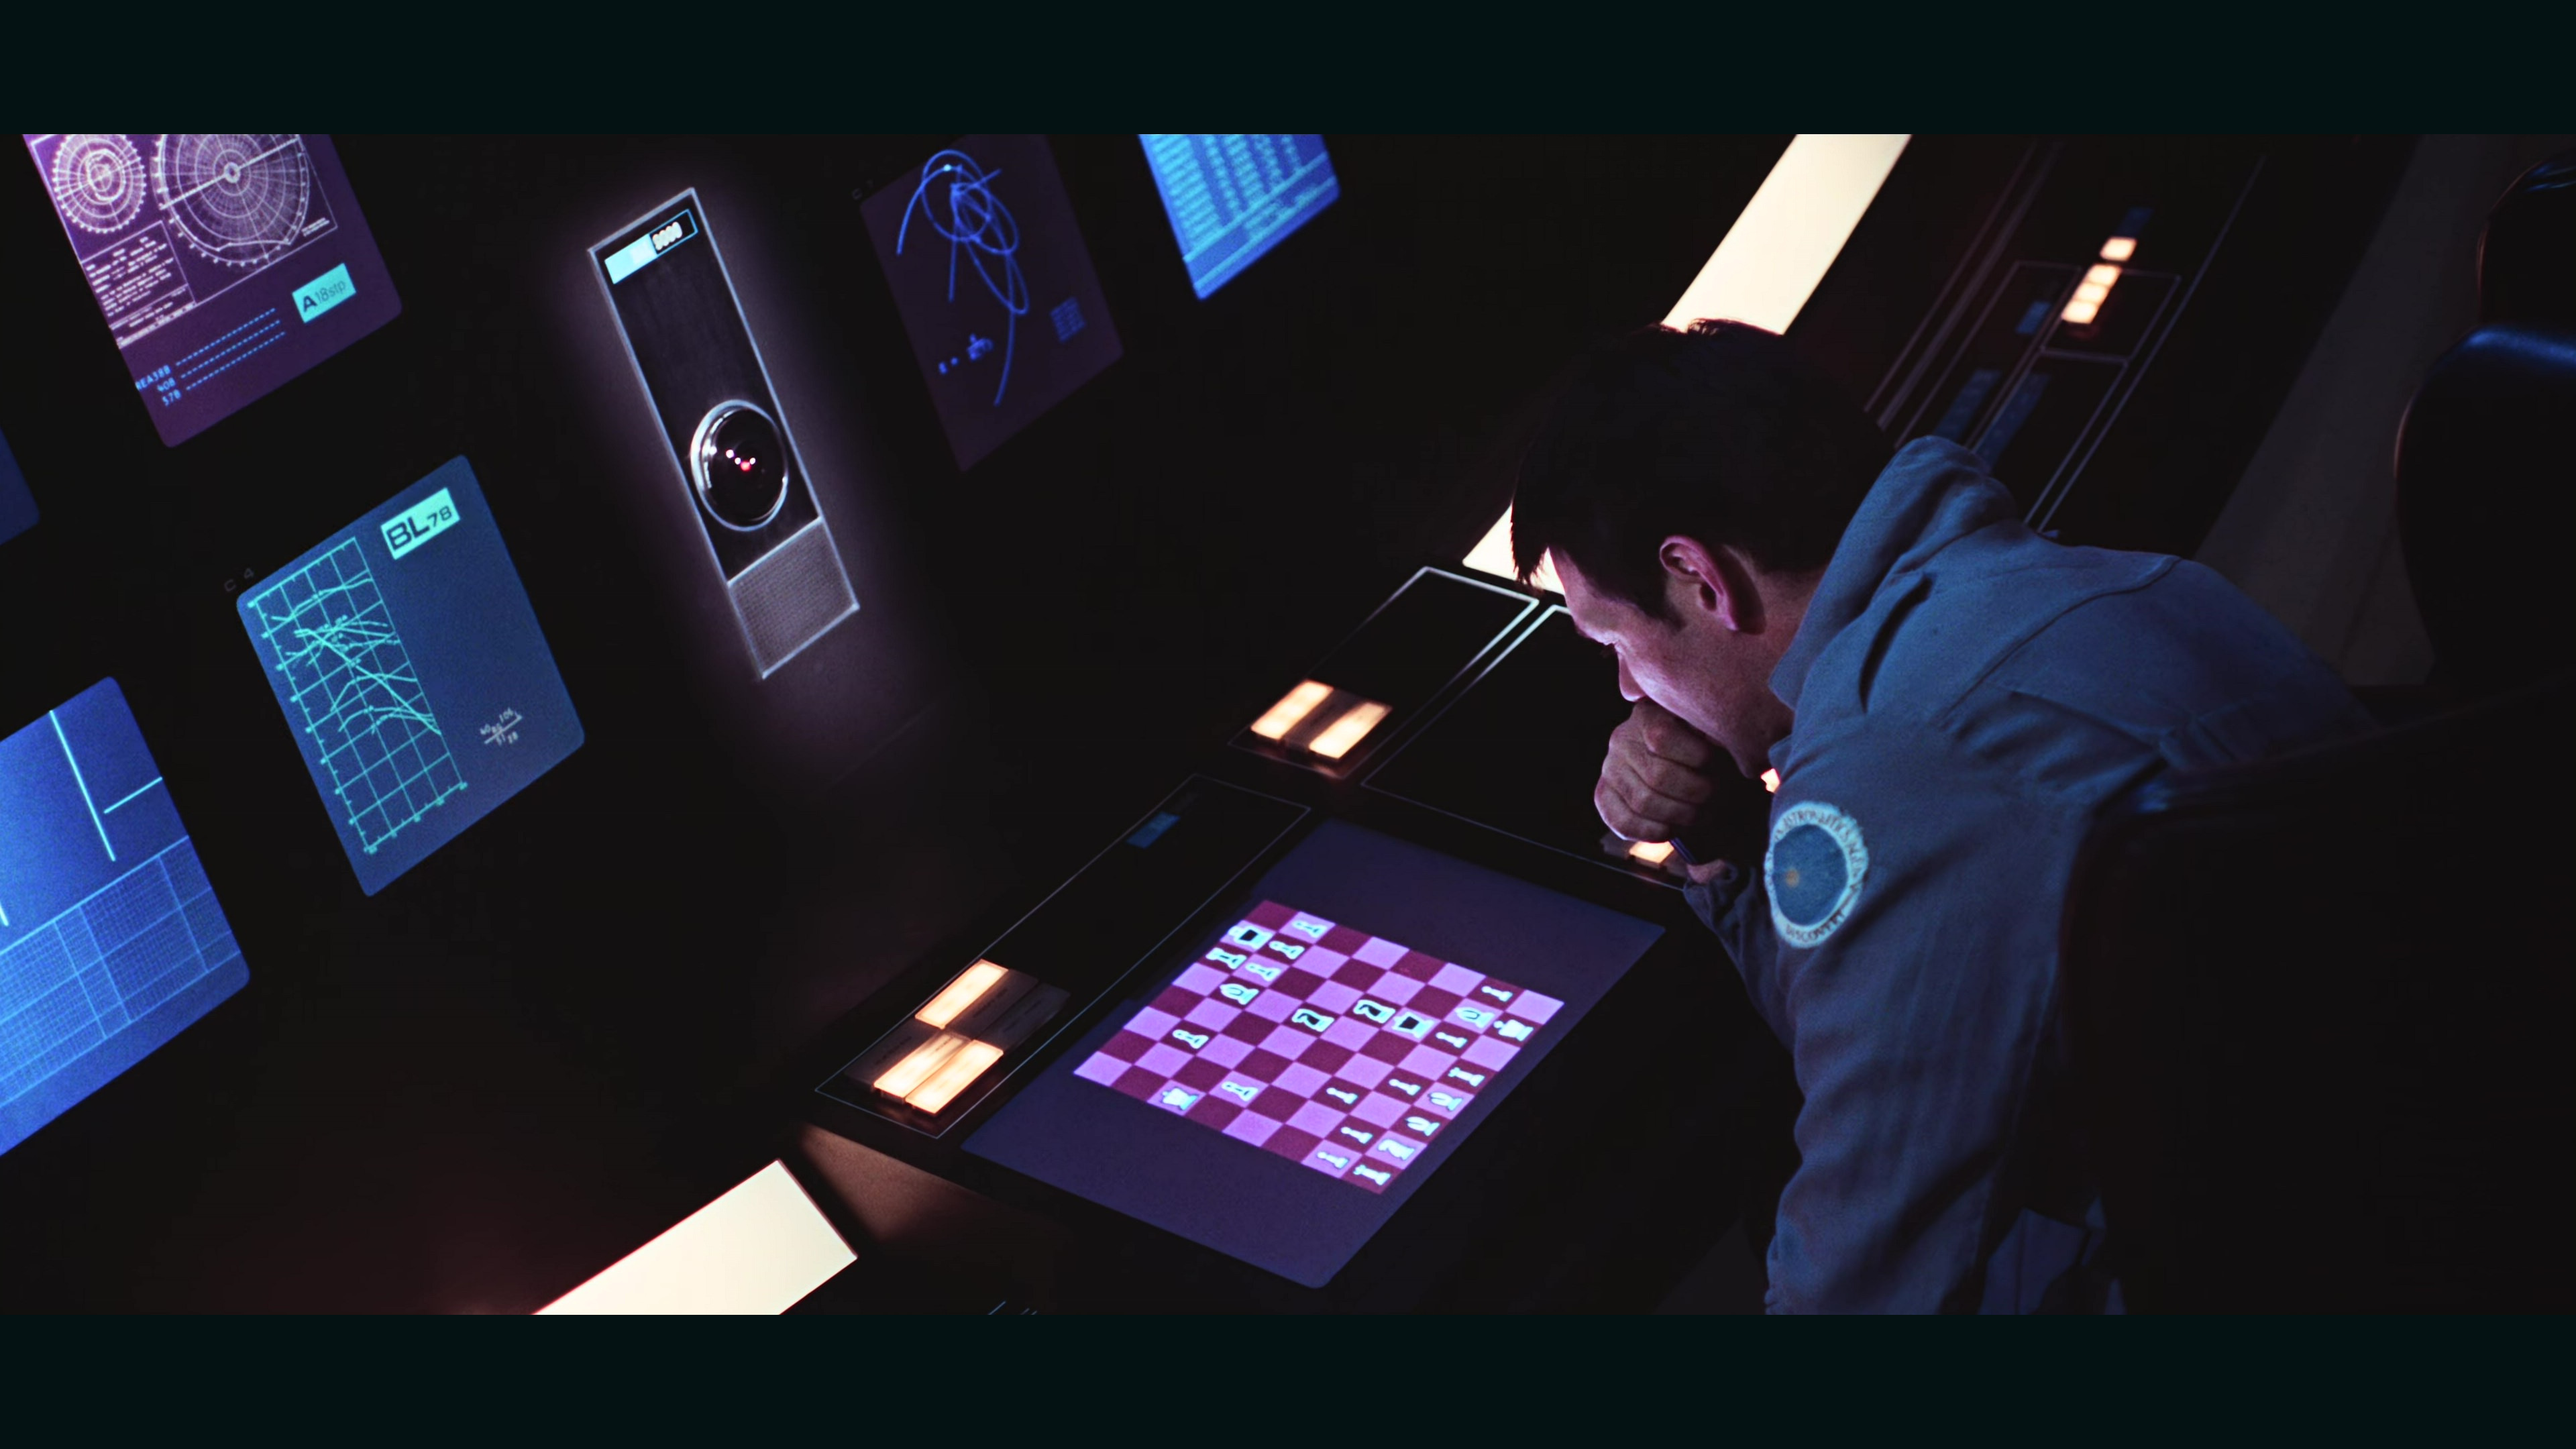
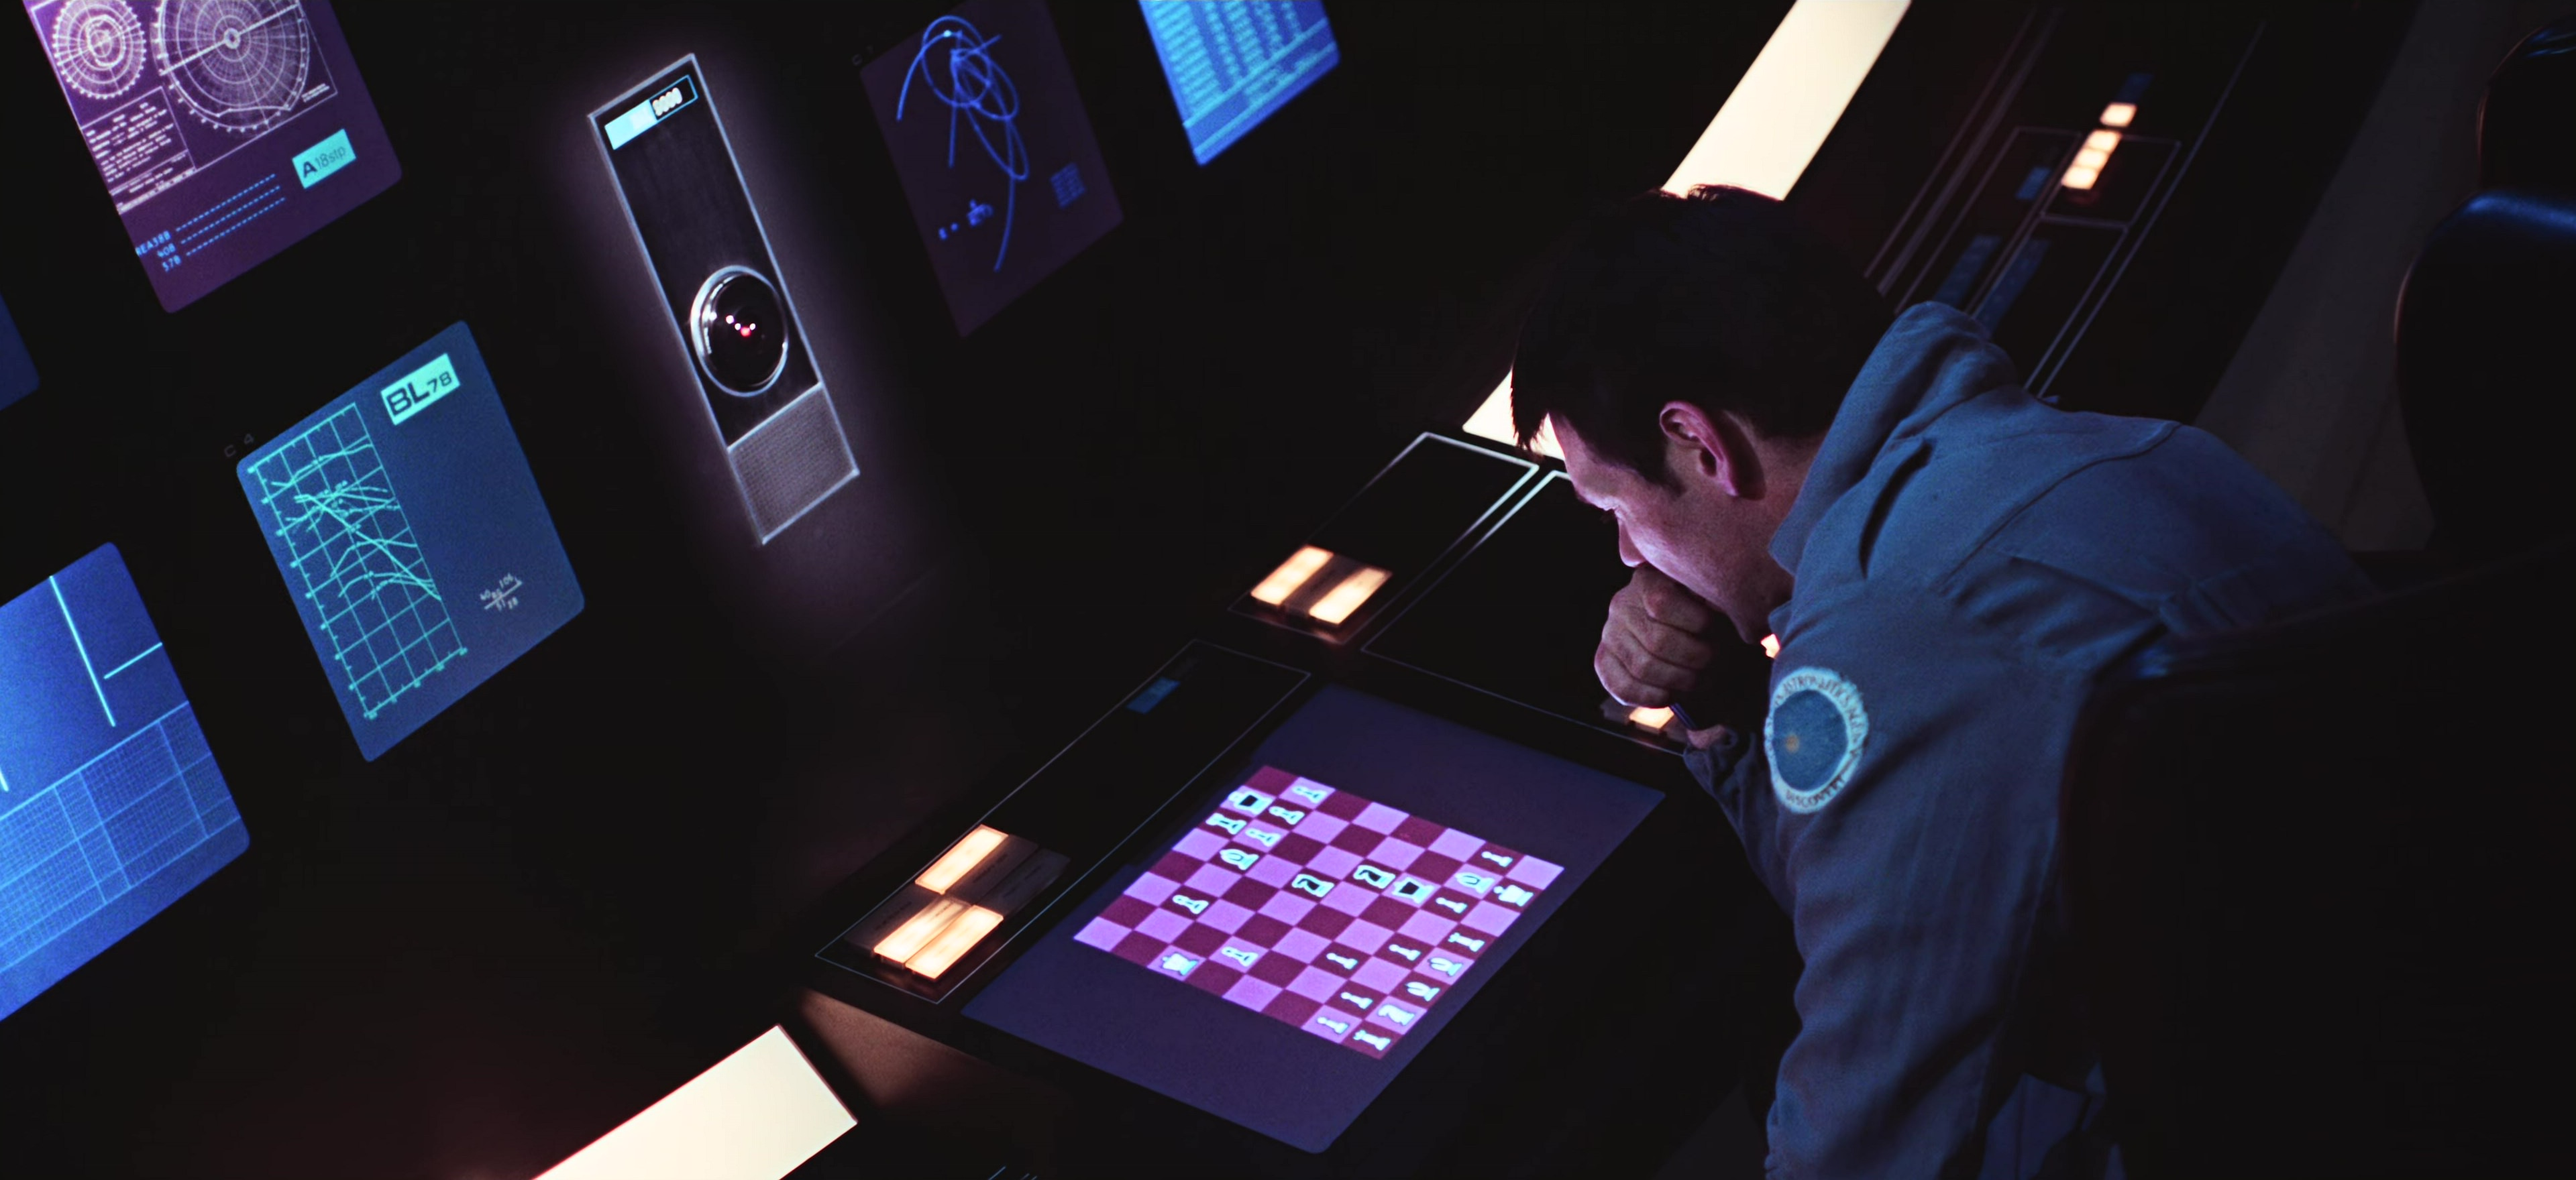
Restore original cinematic wallpaper framing
Remove the 16:9 letterboxing and return all wallpapers to their original 3840x1760 presentation.\n\nCo-Authored-By: GPT-5.6 Luna <noreply@openai.com>

diff --git a/backgrounds/SOURCES.md b/backgrounds/SOURCES.md
@@ -3,11 +3,9 @@
 All wallpapers live together in this directory:
 `~/.config/omarchy/themes/discovery-one/backgrounds/`.
 
-The collection contains 16 `3840×2160` wallpapers from *2001: A Space
-Odyssey*, selected for its spacecraft exteriors, orbital architecture, HAL
-interfaces, and practical instrument design. Each original `3840×1760` film
-frame is centered between graphite letterbox areas, preserving the complete
-image on a 16:9 display without stretching.
+The collection contains 16 center-cropped `3840×1760` frames from *2001: A
+Space Odyssey*, selected for its spacecraft exteriors, orbital architecture,
+HAL interfaces, and practical instrument design.
 
 - Source collection: https://www.movie-screencaps.com/2001-a-space-odyssey-1968-4k/
 - Direct image host: https://imgs.screencaps.us/196/4k-8-spaceodyssee/full/

diff --git a/README.md b/README.md
@@ -44,8 +44,8 @@ theme.
 - `colors.toml` — Omarchy colour definitions and ANSI terminal palette
 - `vencord.theme.css` — compact System24 spacecraft-instrument styling for Vencord/Vesktop
 - `icons.theme` — Yaru icon theme
-- `backgrounds/` — 16 curated 3840×2160 *2001* spacecraft, station, and
-  computer-interface wallpapers; each preserves the full cinematic frame
+- `backgrounds/` — 16 curated 3840×1760 *2001* spacecraft, station, and
+  computer-interface frames
 - `DESIGN.md` — visual direction and role rules
 - `backgrounds/SOURCES.md` — wallpaper frame references
 
